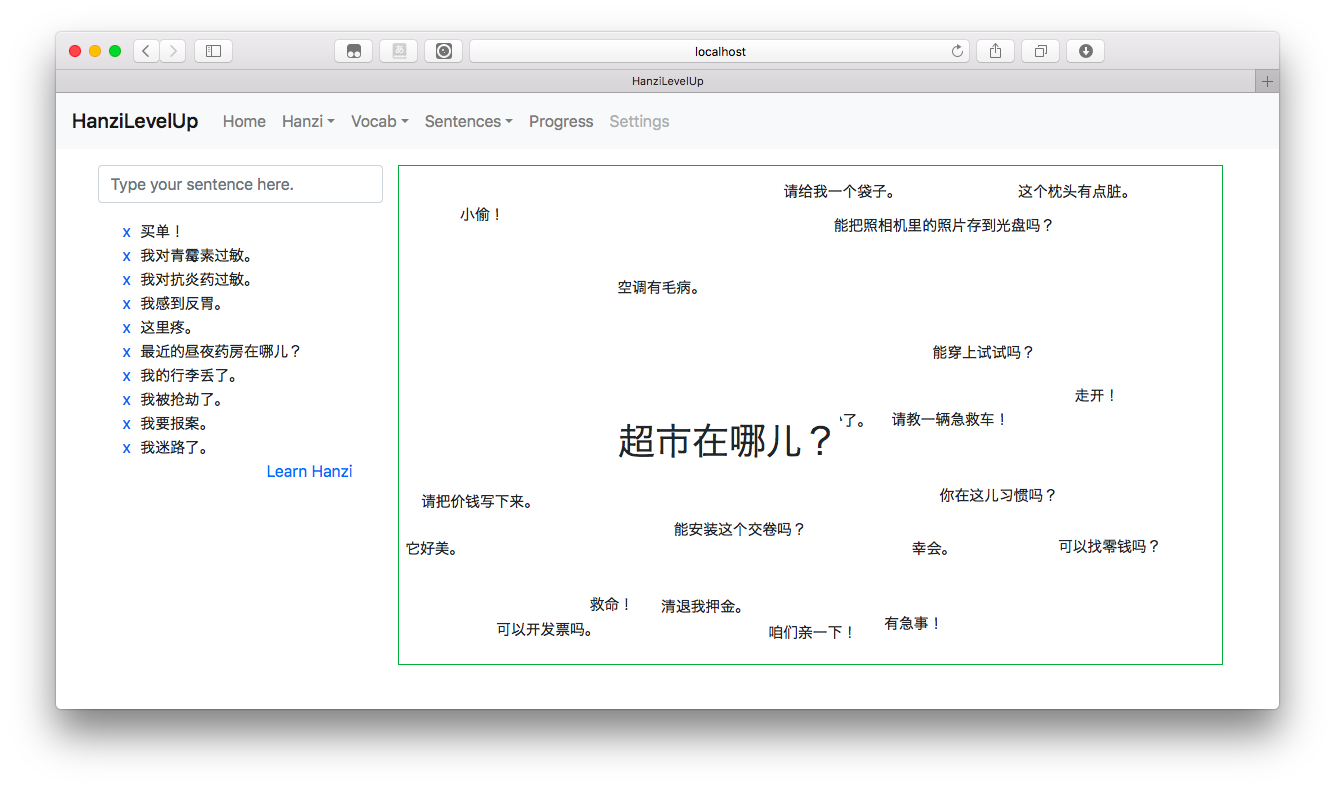
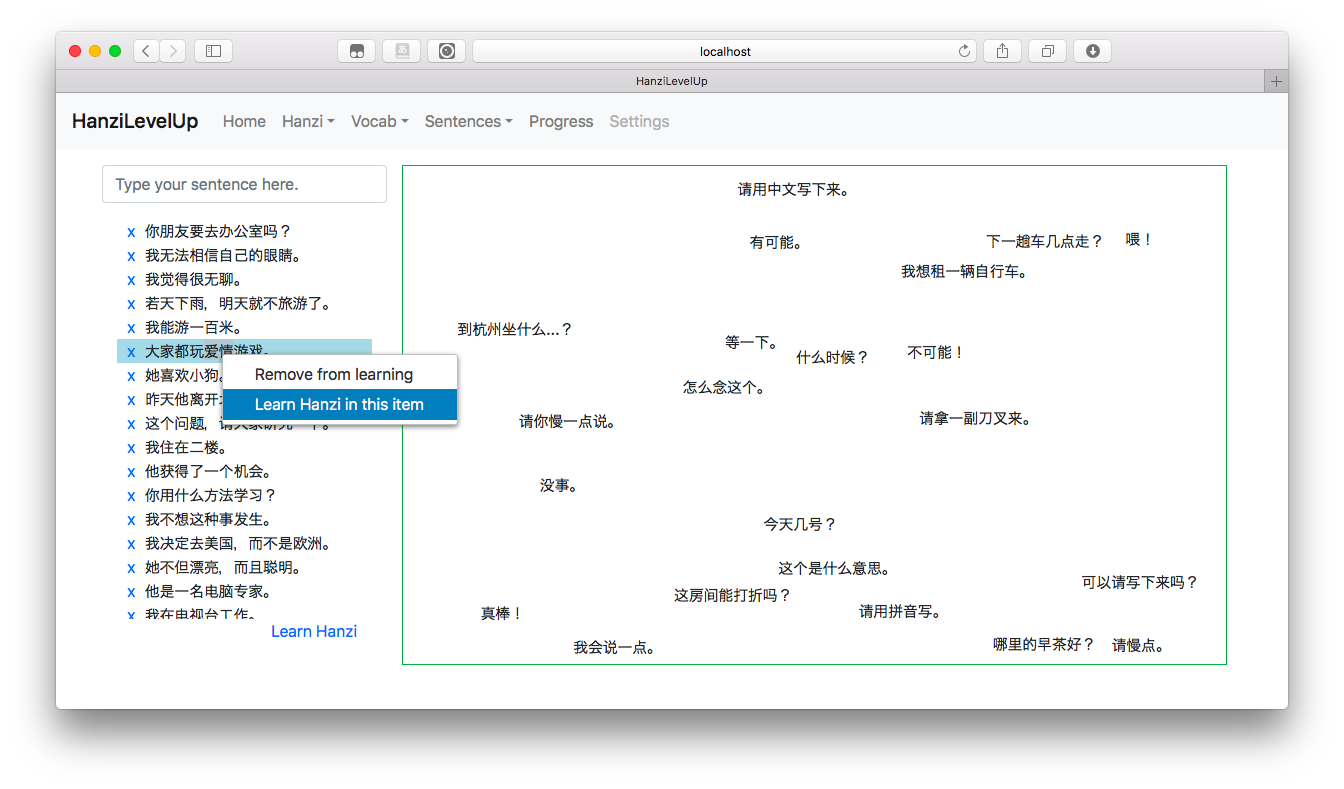
Add more Right-clicks, and add ScrollView to recent-items

diff --git a/webapp/static/js/learnHanzi.js b/webapp/static/js/learnHanzi.js
@@ -51,32 +51,28 @@ function nextChar(){
   }
 }
 
-function postChar(character){
-  charList = character;
-  charNumber = 0;
-  renderChar();
-}
-
 function renderChar(){
   const currentChar = charList[charNumber];
-  const charToPost = currentChar;
+  let charToPost = currentChar;
 
   if(!isNaN(parseInt(charList))){
     $('#character').html('<div class="number">' + charList + '</div>');
     charToPost = charList;
   } else {
+    charList = charList.replace(/[^\p{UIdeo}]/u, '');
+    
     $('#character').text(currentChar);
-  }
 
-  if(charNumber > 0){
-    $('#previousChar').removeAttr('disabled');
-  } else {
-    $('#previousChar').attr('disabled', true);
-  }
-  if(charNumber < charList.length - 1){
-    $('#nextChar').removeAttr('disabled');
-  } else {
-    $('#nextChar').attr('disabled', true);
+    if(charNumber > 0){
+      $('#previousChar').removeAttr('disabled');
+    } else {
+      $('#previousChar').attr('disabled', true);
+    }
+    if(charNumber < charList.length - 1){
+      $('#nextChar').removeAttr('disabled');
+    } else {
+      $('#nextChar').attr('disabled', true);
+    }
   }
 
   $.post('/post/hanzi/getHyperradicals', {character: charToPost}, function(content) {
@@ -84,19 +80,21 @@ function renderChar(){
     renderContent('#supercompositions', content.supercompositions);
     renderContent('#variants', content.variants);
 
-    $('#vocab').text('');
+    const $vocab = $('#vocab');
+    $vocab.text('');
     for(let i=0; i<content.vocab.length; i++){
-      $('#vocab').append(
+      $vocab.append(
         "<div class='entry container'><a href='#' onclick='speak(\"{3}\"); return false;' title='{1}'>{0}</a> {2}</div>"
         .format(content.vocab[i][1],
           content.vocab[i][2],
           content.vocab[i][3],
           content.vocab[i][1].addSlashes()));
-      }
+    }
 
-    $('#sentences').text('');
+    const $sentences = $('#sentences');
+    $sentences.text('');
     for(let i=0; i<content.sentences.length; i++){
-      $('#sentences').append(
+      $sentences.append(
         "<div class='entry container'><a href='#' onclick='speak(\"{2}\"); return false;'>{0}</a> {1}</div>"
         .format(content.sentences[i][0],
           content.sentences[i][1],
@@ -112,7 +110,7 @@ function renderContent(selector, contentList){
   for(let i=0; i<contentList.length; i++){
     const class_name = isNaN(parseInt(contentList[i])) ? 'character' : 'number';
     $(selector).append(
-      "<div class='{0}' onclick='postChar(\"{1}\")'>{1}</div> "
+      "<div class='{0}'>{1}</div> "
         .format(class_name, contentList[i]));
   }
 }

diff --git a/webapp/static/js/common.js b/webapp/static/js/common.js
@@ -1,4 +1,3 @@
-// First, checks if it isn't implemented yet.
 if (!String.prototype.format) {
   String.prototype.format = function() {
     var args = arguments;
@@ -89,11 +88,7 @@ function createAquarium(itemType, allItems){
       width: currentItem.width()
     };
 
-    function isOverlap_current(el1){
-      return isOverlap(currentCoordinate, el1);
-    }
-
-    if(usedCoordinate.some(isOverlap_current) ||
+    if(usedCoordinate.some(el => isOverlap(currentCoordinate, el)) ||
         currentCoordinate.offset.left < showcaseCoordinate.offset.left ||
         currentCoordinate.offset.top + currentCoordinate.height > showcaseCoordinate.offset.top + showcaseCoordinate.height){
       failedObject.push(currentItem.attr('id'));
@@ -200,10 +195,10 @@ function contextMenuBuilder($trigger, e, itemType, childrenType) {
             $this.parent().show();
           }
           break;
-        case 'Generated from sentences':
-          if(itemId <= 0){
-            $this.parent().show();
-          }
+        // case 'Generated from sentences':
+        //   if(itemId <= 0){
+        //     $this.parent().show();
+        //   }
       }
     });
   }
@@ -230,9 +225,14 @@ function contextMenuBuilder($trigger, e, itemType, childrenType) {
           $.post('/post/{0}/removeFromLearning'.format(itemType), postJson);
         }
       },
-      generatedFromSentences: {
-        name: "Generated from sentences",
-        visible: false
+      learnHanzi: {
+        name: "Learn Hanzi in this item",
+        visible: true,
+        callback: function(key, opt){
+          Cookies.set('allHanzi', $trigger.children(childrenType).text());
+          const win = window.open('/learnHanzi', '_blank');
+          win.focus();
+        }
       }
     }
   };

diff --git a/webapp/static/js/learnVocab.js b/webapp/static/js/learnVocab.js
@@ -9,20 +9,27 @@ $(document).ready(function() {
 });
 
 async function itemLoader(){
-  var recentVocabId = [];
+  let recentVocabId = [];
 
   await $.post('/post/vocab/getRecent', function(recent_vocab) {
-    var $contents = $('#contents');
+    const $recent = $('#recent-vocab');
 
-    for(var i=0; i<recent_vocab.length; i++){
-      $contents.append(HTMLTemplate.format(
+    for(let i=0; i<recent_vocab.length; i++){
+      $recent.append(HTMLTemplate.format(
         recent_vocab[i][0],
         recent_vocab[i][1].addSlashes(),
         recent_vocab[i][1]));
-      recentVocabId.push(recent_vocab[i][0]);
+      $recent.push(recent_vocab[i][0]);
     }
 
     setDeleteVocabListener();
+
+    $recent.contextMenu({
+      selector: ".entry",
+      build: function($trigger, e) {
+        return contextMenuBuilder($trigger, e, 'vocab', 'div')
+      }
+    });
   });
 
   await $.post('/post/vocab/getAll', function(all_vocab) {

diff --git a/webapp/static/js/index.js b/webapp/static/js/index.js
@@ -12,10 +12,10 @@ async function itemLoader(){
   let recentSentencesId = [];
 
   await $.post('/post/sentence/getRecent', function(recent_sentences) {
-    const $contents = $('#contents');
+    const $recent = $('#recent-sentences');
 
     for(let i=0; i<recent_sentences.length; i++){
-      $contents.append(HTMLTemplate.format(
+      $recent.append(HTMLTemplate.format(
         recent_sentences[i][0],
         recent_sentences[i][1].addSlashes(),
         recent_sentences[i][1]));
@@ -23,6 +23,13 @@ async function itemLoader(){
     }
 
     setDeleteSentenceListener();
+
+    $recent.contextMenu({
+      selector: ".entry",
+      build: function($trigger, e) {
+        return contextMenuBuilder($trigger, e, 'sentence', 'div')
+      }
+    });
   });
 
   await $.post('/post/sentence/getAll', function(all_sentences) {

diff --git a/webapp/templates/index.html b/webapp/templates/index.html
@@ -11,10 +11,10 @@
         <input type="text" id="sentenceInput" class="form-control" placeholder="Type your sentence here." />
       </div>
       <div class="row mt-3">
-        <div id="contents" class="container"></div>
+        <div id="recent-sentences" class="container recent"></div>
       </div>
       <div class="container">
-        <a class="float-right" href="#" onclick="loadHanzi()">Learn Hanzi</a>
+        <a class="float-right" href="#" onclick="loadHanzi()"> Learn Hanzi</a>
       </div>
     </div>
 

diff --git a/webapp/templates/learnVocab.html b/webapp/templates/learnVocab.html
@@ -11,10 +11,10 @@
         <input type="text" id="vocabInput" class="form-control" placeholder="Type your vocabulary here." />
       </div>
       <div class="row mt-3">
-        <div id="contents" class="container"></div>
+        <div id="recent-vocab" class="container recent"></div>
       </div>
       <div class="container">
-        <a class="float-right" href="#" onclick="loadHanzi()">Learn Hanzi</a>
+        <a class="float-right" href="#" onclick="loadHanzi()"> Learn Hanzi</a>
       </div>
     </div>
 

diff --git a/webapp/static/css/common.css b/webapp/static/css/common.css
@@ -63,3 +63,8 @@
 .hoverElement > .number {
   font-size: 50px;
 }
+
+.recent {
+  max-height: 400px;
+  overflow-y: scroll;
+}

diff --git a/webapp/views_hanzi.py b/webapp/views_hanzi.py
@@ -23,9 +23,13 @@ spoonfed = SpoonFed()
 def get_hyperradicals():
     if request.method == 'POST':
         current_char = request.form.get('character')
-        sentences = list(spoonfed.get_sentence(current_char))[:10]
-        if len(sentences) == 0:
-            sentences = list(jukuu(current_char))
+
+        if not current_char.isdigit():
+            sentences = list(spoonfed.get_sentence(current_char))[:10]
+            if len(sentences) == 0:
+                sentences = list(jukuu(current_char))
+        else:
+            sentences = []
 
         return jsonify({
             'compositions': decompose.get_sub(current_char),
